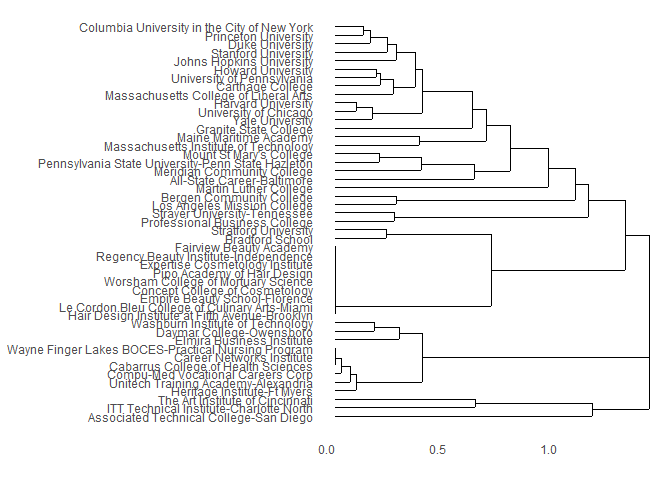
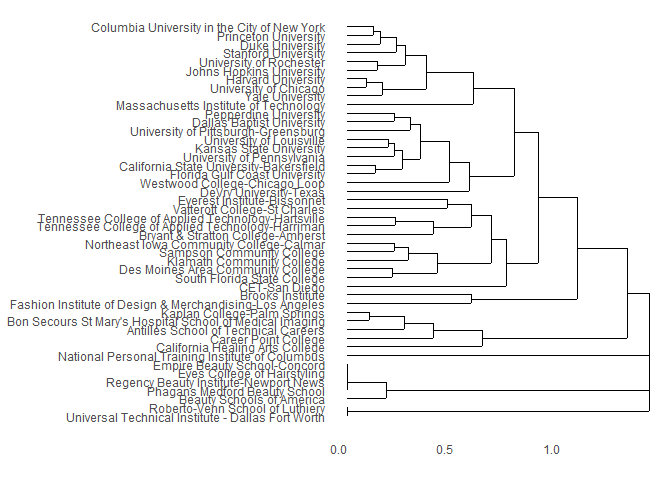
commit 3

diff --git a/CollegeGrants.md b/CollegeGrants.md
@@ -42,6 +42,10 @@ knitr::kable(head(colleges))
 | 100724 | Alabama State University            | Montgomery | AL    | City: Midsize | Public            | Predominantly bachelor’s-degree granting | Graduate degree | TRUE                | FALSE     | FALSE       | FALSE     |                      380 |                      430 |                      480 |                    370 |                    425 |                    480 |                        NA |                        NA |                        NA |                   0.0000 |                 0.0000 |                    0.0000 |                0.0000 |                      0.0733 |                  0.0000 |                         0.0450 |                     0 |                 0.2150 |                   0.0000 |                 0.0000 |                0.0000 |                         0.0000 |                0 |               0.0183 |                     0.0000 |                             0 |                    0.1033 |                   0.0183 |                     0 |                       0.0000 |                  0.0183 |                    0.0000 |                0.0000 |                     0.0150 |                                0 |             0.0617 |                            0.1183 |                     0.0650 |                       0.0150 |                         0 |                      0 |                                  0 |                           0 |                             0.0567 |                       0.0633 |                           0.1067 |               0.0067 | FALSE        |              0.0902 |            0.8265 |          0.6219 |              0.8735 |      33452.0 |            27800 |                 0.3422256 | 11936 |       0.94 |       0.85 |           20.89 |          0.57 |           0.03 |           0.01 |              0.45 |                24029.5 |         94.53 |         16.96 |               4.81 |          251 | FALSE    |
 | 100751 | The University of Alabama           | Tuscaloosa | AL    | City: Small   | Public            | Predominantly bachelor’s-degree granting | Graduate degree | FALSE               | FALSE     | FALSE       | FALSE     |                      490 |                      555 |                      620 |                    500 |                    570 |                    640 |                       480 |                       540 |                       600 |                   0.0000 |                 0.0054 |                    0.0000 |                0.0022 |                      0.1084 |                  0.0000 |                         0.0068 |                     0 |                 0.0840 |                   0.0640 |                 0.0000 |                0.0068 |                         0.0700 |                0 |               0.0178 |                     0.0000 |                             0 |                    0.0348 |                   0.0076 |                     0 |                       0.0302 |                  0.0000 |                    0.0060 |                0.0000 |                     0.0074 |                                0 |             0.0354 |                            0.0216 |                     0.0124 |                       0.0422 |                         0 |                      0 |                                  0 |                           0 |                             0.0360 |                       0.0946 |                           0.2870 |               0.0194 | FALSE        |              0.0852 |            0.2107 |          0.8700 |              0.4148 |      24000.0 |            42400 |                 0.6610854 | 20916 |       0.94 |       0.53 |           20.77 |          0.56 |           0.05 |           0.02 |              0.30 |                58976.0 |         96.08 |         10.05 |               3.26 |          292 | FALSE    |
 
+``` r
+set.seed(2439)
+```
+
 # Variable Selection and Data Preparation
 
 Before creating our clusters, I will remove missing values and duplicate
@@ -168,4 +172,4 @@ From the dendrogram above, as expected, the top 10 schools are all very
 similar in terms of major composition. Schools that branch away right
 away and thus probably not a wise investment include beauty schools and
 community colleges. Some that we might consider include University of
-Connecticut - Stanford and Fairleigh Dickinson University.
+Rochester and and Kansas State University.
